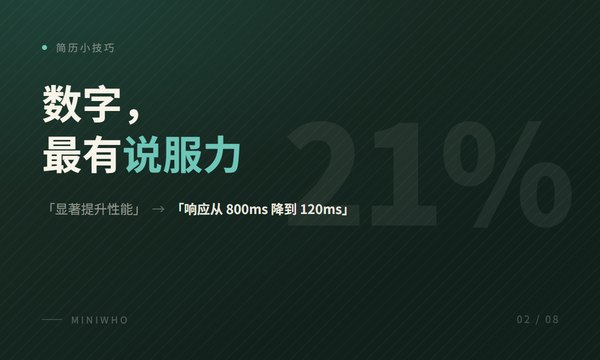
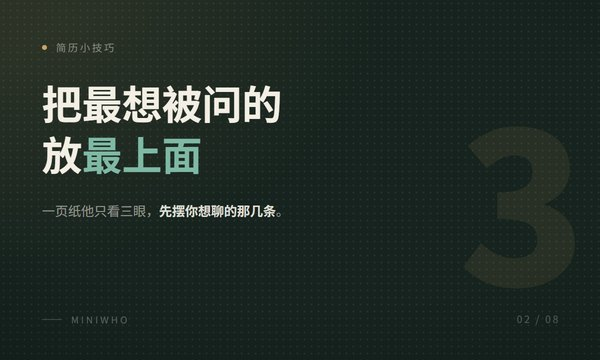
feat: unify the captcha cards on the login page palette
All eight cards now share one palette lifted from the login page's
visual panel: the same #16231e ground, the same amber glow, the same dot
grain and the same off-white text. Light and dark no longer alternate,
so a visitor sees the same surface whichever card the server draws.

Copy is rewritten from scratch, one opinionated tip per card instead of
restating the previous set.

diff --git a/docs/assets/captcha-backgrounds.html b/docs/assets/captcha-backgrounds.html
@@ -15,8 +15,11 @@
   然后按 720px 一张竖切、每张缩到 600x360 存成 JPG（质量 86 左右）即可。
   底图尺寸固定在 600x360，换成别的尺寸拼图比例和判定都会跟着变。
 
-  版式是一整幅：不左右分栏，一张纸或一块墨色到底，巨大的淡色图形沉在背景里当纹样，
+  版式是一整幅：不左右分栏，一块墨色到底，巨大的淡色字沉在背景里当纹样，
   文字直接压在上面。这样拼图缺口落在哪都能靠底纹认出来，也不会被中缝切断。
+
+  配色取自登录页左侧视觉区（#16231e 墨底 + 琥珀微光 + #f3efe5 米白字 + 点阵纹理），
+  八张全部同一套，出现在验证弹窗里跟登录页是同一个调子。
 -->
 <style>
   * { margin: 0; padding: 0; box-sizing: border-box; }
@@ -27,6 +30,7 @@
     -webkit-font-smoothing: antialiased;
   }
 
+  /* ---------------- 统一底色：跟登录页视觉区一致 ---------------- */
   .card {
     position: relative;
     width: 600px;
@@ -35,88 +39,48 @@
     display: flex;
     flex-direction: column;
     padding: 40px 42px 34px;
-  }
-
-  /* ---------------- 浅色：一张纸 ---------------- */
-  .card.light {
-    background: #f7f3e8;
-    color: #14231e;
-  }
-
-  /* 稿纸网格 */
-  .card.light::before {
-    content: "";
-    position: absolute;
-    inset: 0;
-    background-image:
-      linear-gradient(to right, rgba(20, 35, 30, 0.055) 1px, transparent 1px),
-      linear-gradient(to bottom, rgba(20, 35, 30, 0.055) 1px, transparent 1px);
-    background-size: 26px 26px;
-    pointer-events: none;
-  }
-
-  /* 纸边一圈暖影，别让它像纯色块 */
-  .card.light::after {
-    content: "";
-    position: absolute;
-    inset: 0;
+    color: #f3efe5;
     background:
-      radial-gradient(90% 70% at 0% 0%, rgba(47, 156, 140, 0.07), transparent 62%),
-      radial-gradient(80% 60% at 100% 100%, rgba(20, 35, 30, 0.06), transparent 58%);
-    pointer-events: none;
+      radial-gradient(620px 440px at 0% 0%, rgba(199, 164, 101, 0.15), transparent 62%),
+      #16231e;
   }
 
-  /* ---------------- 深色：一块墨 ---------------- */
-  .card.dark {
-    background:
-      radial-gradient(110% 90% at 8% 0%, rgba(47, 156, 140, 0.16), transparent 58%),
-      linear-gradient(152deg, #1d3128, #11201b 72%);
-    color: #f7f3e8;
-  }
-
-  /* 深色底上的极细斜纹，给拼图一点可辨认的纹理 */
-  .card.dark::before {
+  /* 点阵纹理：登录页视觉区用的同一套，顺带给拼图缺口提供可辨认的底纹 */
+  .card::before {
     content: "";
     position: absolute;
     inset: 0;
-    background-image: repeating-linear-gradient(
-      135deg,
-      rgba(247, 243, 232, 0.028) 0 1px,
-      transparent 1px 9px
-    );
+    background-image: radial-gradient(rgba(243, 239, 229, 0.5) 1px, transparent 1px);
+    background-size: 7px 7px;
+    opacity: 0.14;
     pointer-events: none;
   }
 
-  /* ---------------- 背景巨字 / 巨形 ---------------- */
+  /* 四角压暗，避免整块平得像色卡 */
+  .card::after {
+    content: "";
+    position: absolute;
+    inset: 0;
+    background: radial-gradient(120% 100% at 50% 40%, transparent 46%, rgba(6, 14, 11, 0.42));
+    pointer-events: none;
+  }
+
+  /* ---------------- 背景巨字 ---------------- */
   .mark {
     position: absolute;
     z-index: 0;
     pointer-events: none;
-    line-height: 0.78;
+    line-height: 0.8;
     font-weight: 800;
     letter-spacing: -0.04em;
+    color: rgba(199, 164, 101, 0.105);
     user-select: none;
+    right: 22px;
+    bottom: 82px;
+    white-space: nowrap;
   }
 
-  .card.light .mark { color: rgba(20, 35, 30, 0.062); }
-  .card.dark  .mark { color: rgba(247, 243, 232, 0.072); }
-
-  /* 都放在右侧中段：底部留给 MINIWHO 与编号，别互相压 */
-  .mark.mid-right    { right: 30px; top: 46%; transform: translateY(-50%); }
-  .mark.top-right    { right: -12px; top: 6%; }
-
-  /* 背景大图形（圆 / 靶 / 印章） */
-  .shape {
-    position: absolute;
-    z-index: 0;
-    pointer-events: none;
-    border-radius: 50%;
-  }
-
-  .card.light .shape { border-color: rgba(47, 156, 140, 0.22); }
-  .card.dark  .shape { border-color: rgba(110, 198, 184, 0.2); }
-
-  /* ---------------- 前景文字 ---------------- */
+  /* ---------------- 前景 ---------------- */
   .kicker {
     position: relative;
     z-index: 2;
@@ -125,58 +89,52 @@
     gap: 9px;
     font-size: 10px;
     letter-spacing: 0.2em;
+    color: rgba(243, 239, 229, 0.44);
   }
-
-  .card.light .kicker { color: rgba(20, 35, 30, 0.42); }
-  .card.dark  .kicker { color: rgba(247, 243, 232, 0.46); }
 
   .kicker .dot {
     width: 5px;
     height: 5px;
     border-radius: 50%;
     flex: none;
+    background: #c7a465;
   }
-
-  .card.light .kicker .dot { background: #2f9c8c; }
-  .card.dark  .kicker .dot { background: #6ec6b8; }
 
   .title {
     position: relative;
     z-index: 2;
     margin-top: 22px;
     font-size: 40px;
-    line-height: 1.26;
+    line-height: 1.28;
     font-weight: 700;
-    letter-spacing: 0.005em;
-    max-width: 400px;
+    max-width: 380px;
   }
 
-  .title em { font-style: normal; }
+  .title em {
+    font-style: normal;
+    color: #7fb9a6;
+  }
 
-  .card.light .title em { color: #1f8a7a; }
-  .card.dark  .title em { color: #6ec6b8; }
+  .title.solo {
+    font-size: 46px;
+    letter-spacing: 0.01em;
+  }
 
-  /* 举例：一行小字，用引号带出来，不做成按钮 */
   .say {
     position: relative;
     z-index: 2;
     margin-top: 20px;
     font-size: 13px;
-    line-height: 1.7;
-    max-width: 400px;
+    line-height: 1.75;
+    max-width: 380px;
+    color: rgba(243, 239, 229, 0.54);
   }
 
-  .card.light .say { color: rgba(20, 35, 30, 0.5); }
-  .card.dark  .say { color: rgba(247, 243, 232, 0.55); }
+  .say b {
+    font-weight: 600;
+    color: rgba(243, 239, 229, 0.92);
+  }
 
-  .say b { font-weight: 600; }
-
-  .card.light .say b { color: #14231e; }
-  .card.dark  .say b { color: rgba(247, 243, 232, 0.95); }
-
-  .say .arrow { margin: 0 6px; opacity: 0.6; }
-
-  /* 底部标识 */
   .foot {
     position: relative;
     z-index: 2;
@@ -186,10 +144,8 @@
     gap: 9px;
     font-size: 9.5px;
     letter-spacing: 0.24em;
+    color: rgba(243, 239, 229, 0.3);
   }
-
-  .card.light .foot { color: rgba(20, 35, 30, 0.3); }
-  .card.dark  .foot { color: rgba(247, 243, 232, 0.3); }
 
   .foot .bar {
     width: 20px;
@@ -198,7 +154,6 @@
     opacity: 0.6;
   }
 
-  /* 右下角的小印记：编号 */
   .no {
     position: absolute;
     z-index: 2;
@@ -207,92 +162,88 @@
     font-size: 10px;
     letter-spacing: 0.18em;
     font-variant-numeric: tabular-nums;
+    color: rgba(243, 239, 229, 0.26);
   }
-
-  .card.light .no { color: rgba(20, 35, 30, 0.26); }
-  .card.dark  .no { color: rgba(247, 243, 232, 0.26); }
 </style>
 </head>
 <body>
 
-<!-- 01 写结果 · 浅 -->
-<div class="card light" id="c1">
-  <div class="mark mid-right" style="font-size:168px">→</div>
+<!-- 01 负责 -->
+<div class="card">
+  <div class="mark" style="font-size:108px">负责</div>
   <div class="kicker"><span class="dot"></span>简历小技巧</div>
-  <h1 class="title">写<em>结果</em>，<br />别只写职责</h1>
-  <p class="say">「负责用户增长」<span class="arrow">→</span><b>「3 个月把留存做到 21%」</b></p>
+  <h1 class="title">写了<em>「负责」</em>，<br />等于没写</h1>
+  <p class="say">负责是岗位描述，<b>做成了什么才是你</b>。</p>
   <div class="foot"><span class="bar"></span>MINIWHO</div>
   <div class="no">01 / 08</div>
 </div>
 
-<!-- 02 数字 · 深 -->
-<div class="card dark" id="c2">
-  <div class="mark mid-right" style="font-size:138px">21%</div>
+<!-- 02 三条 -->
+<div class="card">
+  <div class="mark" style="font-size:210px">3</div>
   <div class="kicker"><span class="dot"></span>简历小技巧</div>
-  <h1 class="title">数字，<br />最有<em>说服力</em></h1>
-  <p class="say">「显著提升性能」<span class="arrow">→</span><b>「响应从 800ms 降到 120ms」</b></p>
+  <h1 class="title">把最想被问的<br />放<em>最上面</em></h1>
+  <p class="say">一页纸他只看三眼，<b>先摆你想聊的那几条</b>。</p>
   <div class="foot"><span class="bar"></span>MINIWHO</div>
   <div class="no">02 / 08</div>
 </div>
 
-<!-- 03 一岗一版 · 浅 -->
-<div class="card light" id="c3">
-  <div class="shape" style="right:-6px;top:44%;transform:translateY(-50%);width:222px;height:222px;border:1.5px solid;"></div>
-  <div class="shape" style="right:23px;top:44%;transform:translateY(-50%);width:158px;height:158px;border:1.5px dashed;"></div>
-  <div class="shape" style="right:57px;top:44%;transform:translateY(-50%);width:80px;height:80px;background:rgba(47,156,140,.14);"></div>
+<!-- 03 然后呢 -->
+<div class="card">
+  <div class="mark" style="font-size:176px">？</div>
   <div class="kicker"><span class="dot"></span>简历小技巧</div>
-  <h1 class="title">一岗，<br />改<em>一版</em></h1>
-  <p class="say">对着 JD 换关键词，<b>别一份投遍所有公司</b>。</p>
+  <h1 class="title">经得起一句<br /><em>「然后呢」</em></h1>
+  <p class="say">写上去的每一条，<b>都要能往下追问三层</b>。</p>
   <div class="foot"><span class="bar"></span>MINIWHO</div>
   <div class="no">03 / 08</div>
 </div>
 
-<!-- 04 一页就够 · 深 -->
-<div class="card dark" id="c4">
-  <div class="mark mid-right" style="font-size:196px">1</div>
+<!-- 04 形容词 -->
+<div class="card">
+  <div class="mark" style="font-size:96px">形容词</div>
   <div class="kicker"><span class="dot"></span>简历小技巧</div>
-  <h1 class="title">一页<em>就够</em></h1>
-  <p class="say">应届生与三年以内，<b>没人会翻你的第二页</b>。</p>
+  <h1 class="title solo">删掉<em>形容词</em></h1>
+  <p class="say">「认真、踏实、有责任心」<b>占地方，又不加分</b>。</p>
   <div class="foot"><span class="bar"></span>MINIWHO</div>
   <div class="no">04 / 08</div>
 </div>
 
-<!-- 05 动词开头 · 浅 -->
-<div class="card light" id="c5">
-  <div class="mark mid-right" style="font-size:124px">动词</div>
+<!-- 05 一页 -->
+<div class="card">
+  <div class="mark" style="font-size:210px">1</div>
   <div class="kicker"><span class="dot"></span>简历小技巧</div>
-  <h1 class="title">用<em>动词</em>开头</h1>
-  <p class="say">主导、搭建、重构、落地——<b>比「参与了」有力得多</b>。</p>
+  <h1 class="title">排不下，<br />是<em>重点没定</em></h1>
+  <p class="say">一页装不下的不是经历太多，<b>是没想清楚要什么</b>。</p>
   <div class="foot"><span class="bar"></span>MINIWHO</div>
   <div class="no">05 / 08</div>
 </div>
 
-<!-- 06 留白 · 深 -->
-<div class="card dark" id="c6">
-  <div class="shape" style="right:-4px;top:52%;transform:translateY(-50%);width:246px;height:246px;border:1.5px solid;"></div>
+<!-- 06 影响面 -->
+<div class="card">
+  <div class="mark" style="font-size:166px">%</div>
   <div class="kicker"><span class="dot"></span>简历小技巧</div>
-  <h1 class="title">留白，<br />也是<em>内容</em></h1>
-  <p class="say">塞得太满没人读得下去，<b>一页留三分空</b>。</p>
+  <h1 class="title">没数据，<br />就写<em>影响面</em></h1>
+  <p class="say">量不出百分比，就说清<b>影响了多少人、多大范围</b>。</p>
   <div class="foot"><span class="bar"></span>MINIWHO</div>
   <div class="no">06 / 08</div>
 </div>
 
-<!-- 07 再读一遍 · 浅 -->
-<div class="card light" id="c7">
-  <div class="mark mid-right" style="font-size:158px">✓</div>
+<!-- 07 对得上 -->
+<div class="card">
+  <div class="mark" style="font-size:132px">JD</div>
   <div class="kicker"><span class="dot"></span>简历小技巧</div>
-  <h1 class="title">投之前，<br />再<em>读一遍</em></h1>
-  <p class="say">错别字和日期错位，<b>是最容易被扣分的细节</b>。</p>
+  <h1 class="title">只写<em>对得上的</em></h1>
+  <p class="say">简历不是自传，<b>是把岗位要的那几条挑出来放大</b>。</p>
   <div class="foot"><span class="bar"></span>MINIWHO</div>
   <div class="no">07 / 08</div>
 </div>
 
-<!-- 08 关键词 · 深 -->
-<div class="card dark" id="c8">
-  <div class="mark mid-right" style="font-size:170px">#</div>
+<!-- 08 三十遍 -->
+<div class="card">
+  <div class="mark" style="font-size:172px">30</div>
   <div class="kicker"><span class="dot"></span>简历小技巧</div>
-  <h1 class="title">把<em>关键词</em><br />写进简历</h1>
-  <p class="say">HR 先搜词再读内容，<b>把岗位要的词摆到明面上</b>。</p>
+  <h1 class="title">改三十遍<br /><em>不丢人</em></h1>
+  <p class="say">投出去的那一版才算定稿，<b>之前都只是草稿</b>。</p>
   <div class="foot"><span class="bar"></span>MINIWHO</div>
   <div class="no">08 / 08</div>
 </div>
